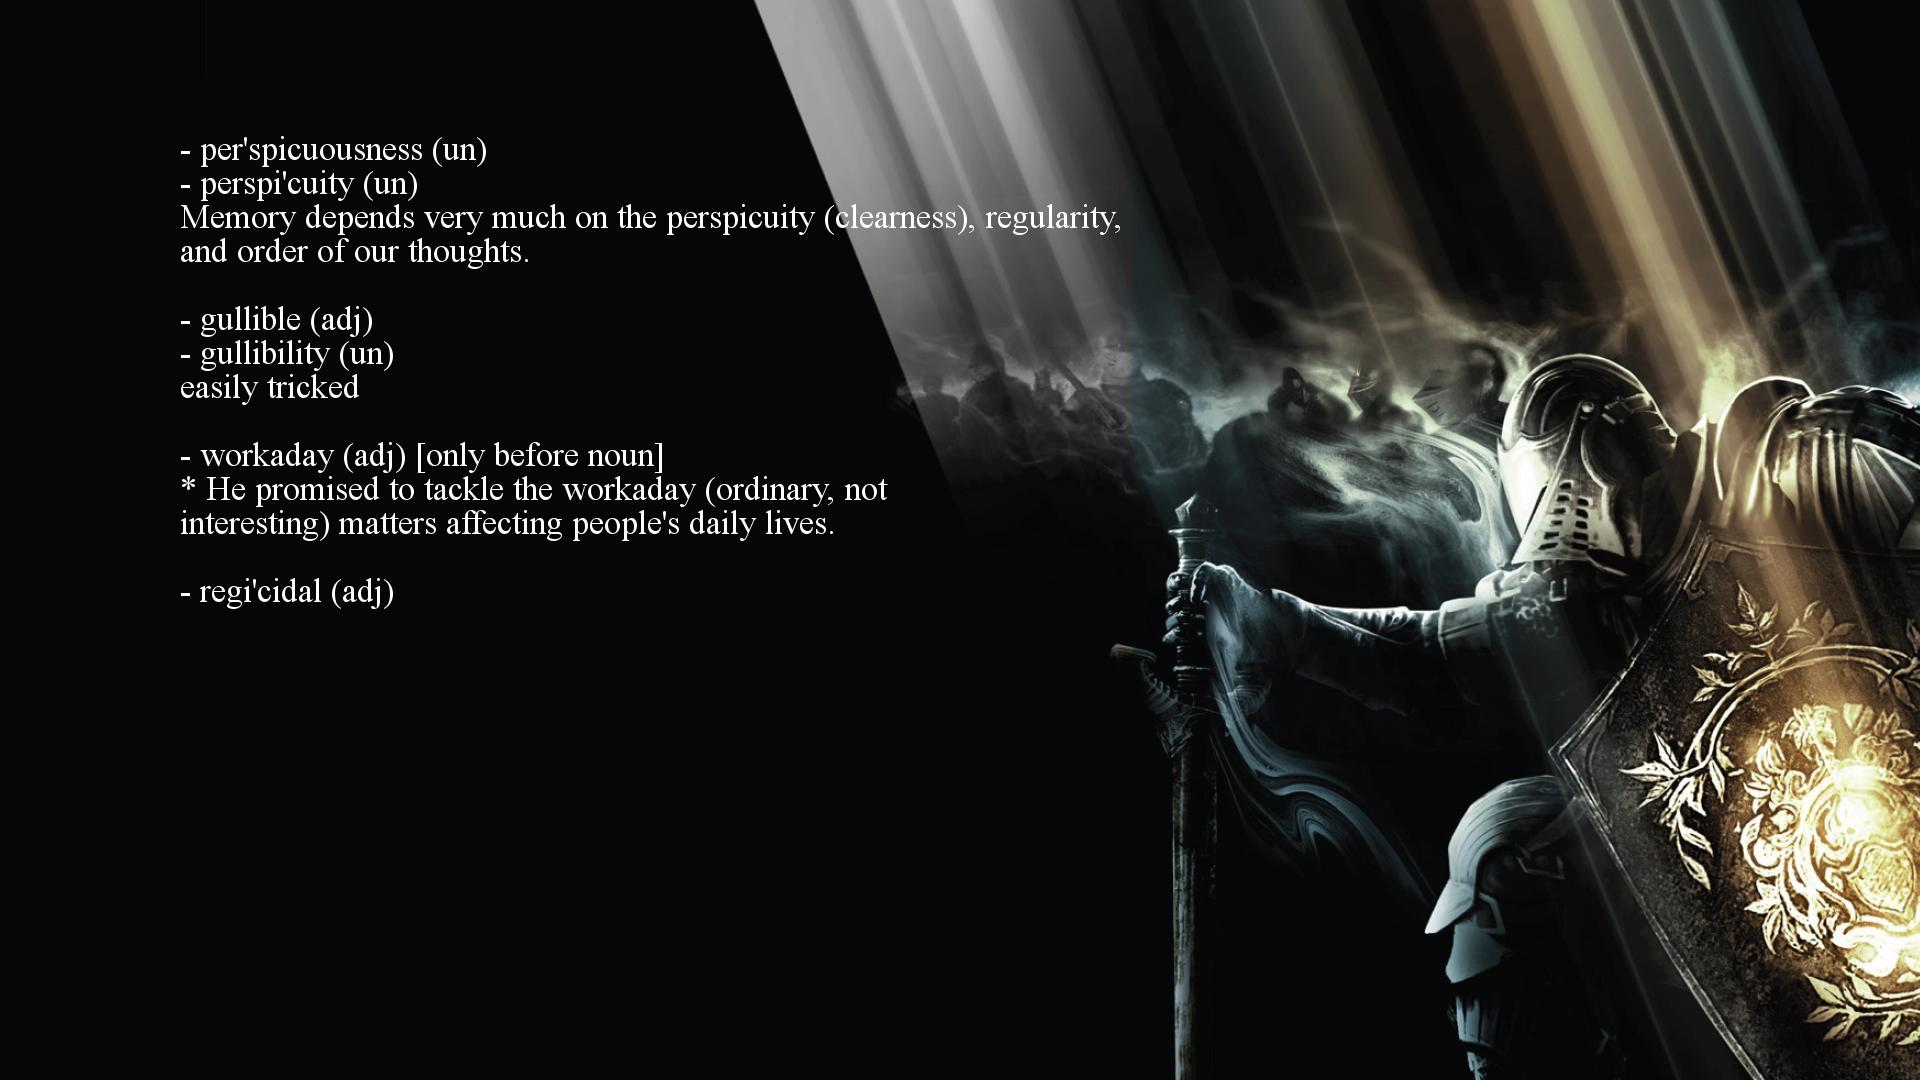
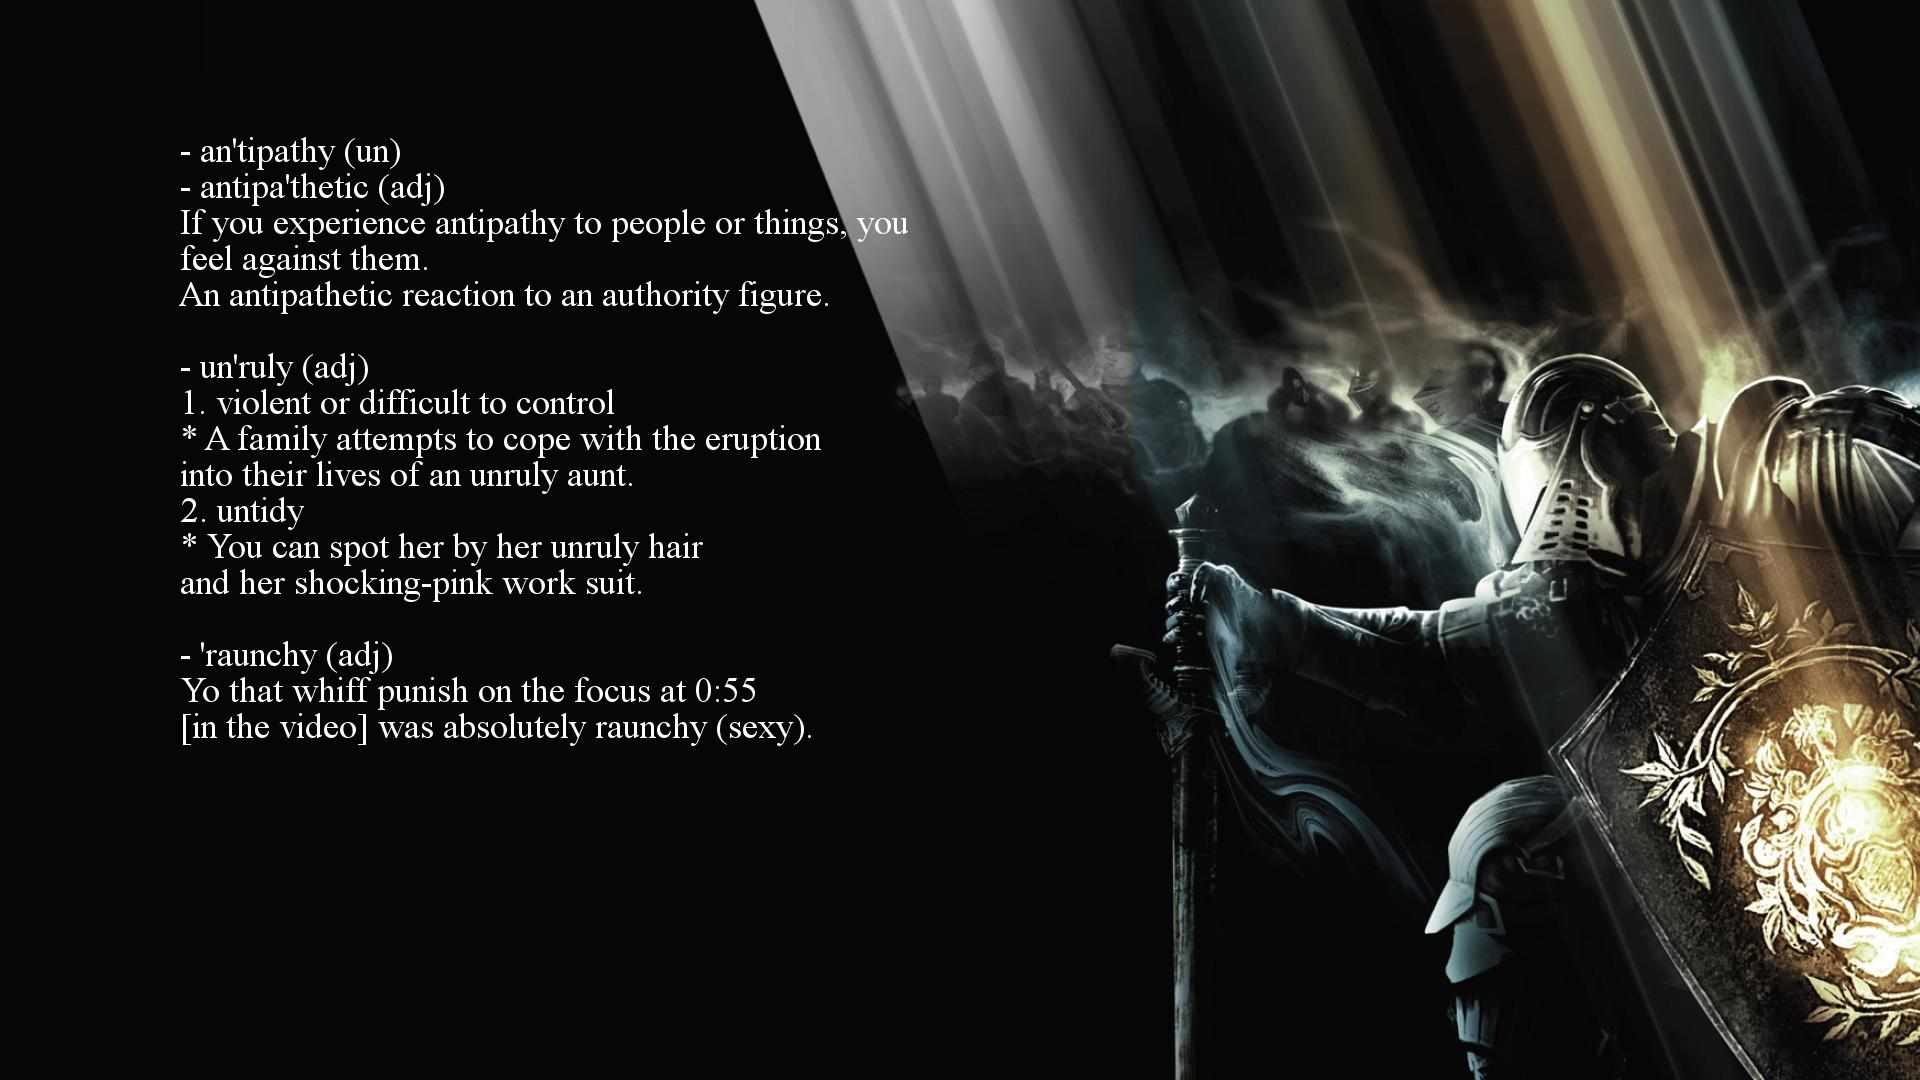
add wall

Changed region(s): [[0.0938, 0.1222, 0.5938, 0.7028], [0.3125, 0.2444, 0.4062, 0.3056]]

diff --git a/wall.py b/wall.py
@@ -17,7 +17,7 @@ with open('vocab.txt', encoding='utf-8') as f:
     chunks = text.split('\n\n')
 
 sl = []
-for chunk in random.sample(chunks, 4):
+for chunk in random.sample(chunks, 3):
     if 'CHAPTER' in chunk:
         continue
     chunks_m = []
@@ -35,13 +35,13 @@ s = '\n\n'.join(sl)
 print(len(s))
 n = len(s)
 if n < 700:
-    fs = 34
+    fs = 36
 elif 700 <= n < 1000:
-    fs = 30
+    fs = 32
 elif 1000 <= n < 1300:
-    fs = 26
+    fs = 28
 else:
-    fs = 22
+    fs = 24
 
 im = Image.open('ds.jpg')
 draw = ImageDraw.Draw(im)
